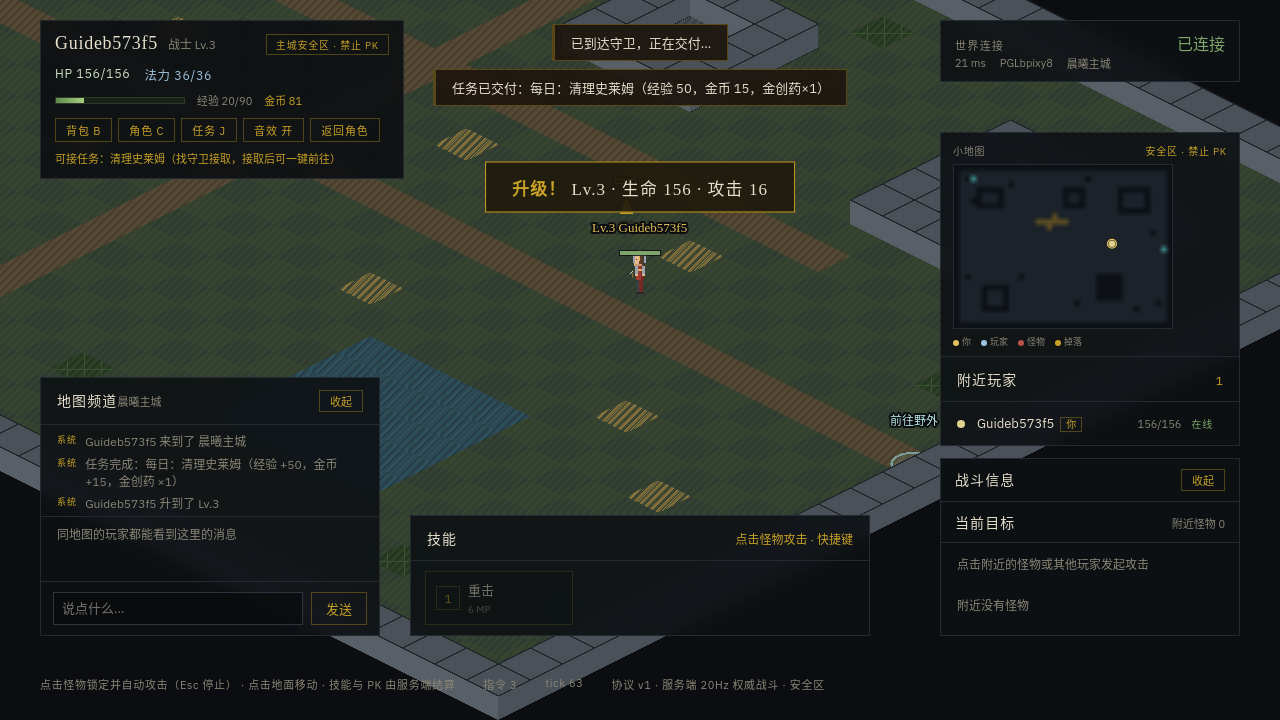
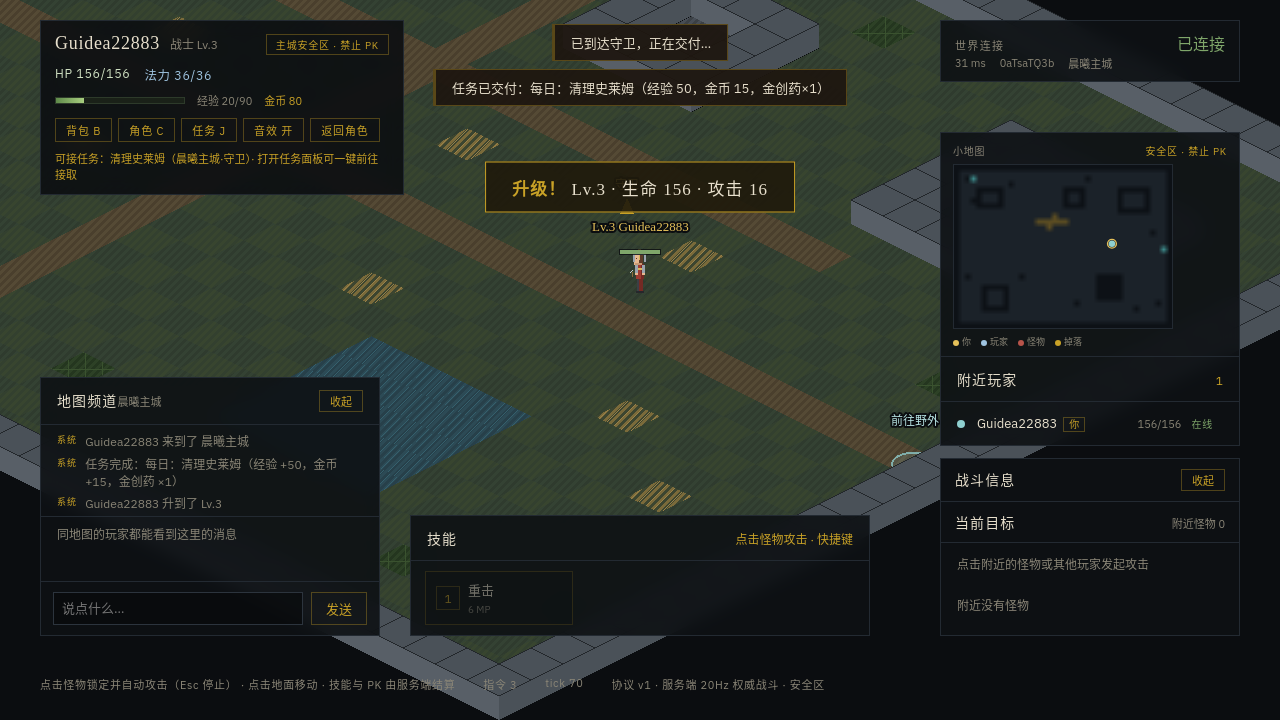
docs(alpha-03): record the global quest panel

diff --git a/docs/ALPHA_03_EXECUTION_PLAN.md b/docs/ALPHA_03_EXECUTION_PLAN.md
@@ -15,7 +15,7 @@
 | S1   | 组队：邀请/接受/离开、名单、跨图保留、共享击杀经验与掉落   | 完成 | `docs/phase-reports/alpha-02/ALPHA_02_PARTY_REPORT.md`、ADR-035/036      |
 | S2   | 世界首领：废墟「灰烬魔像」、二阶段狂暴、地图公告、首领 HUD | 完成 | `docs/phase-reports/alpha-03/ALPHA_03_BOSS_REPORT.md`、ADR-037           |
 | S3-A | 每日任务：内容化重置、周期键、2 个日常任务                 | 完成 | `docs/phase-reports/alpha-03/ALPHA_03_DAILY_QUESTS_REPORT.md`、ADR-038   |
-| S3-B | 一键任务导航：自动寻路/战斗、自动返回与到达交付            | 完成 | `docs/phase-reports/alpha-03/ALPHA_03_QUEST_GUIDANCE_REPORT.md`、ADR-039 |
+| S3-B | 一键任务导航：全局面板、远程接取、自动寻路/战斗与到达交付  | 完成 | `docs/phase-reports/alpha-03/ALPHA_03_QUEST_GUIDANCE_REPORT.md`、ADR-039 |
 | S3-C | 待定：10 步主线任务链或 3 人副本实例                       | 待定 | —                                                                        |
 | S4   | 待定：社交深化（队伍聊天/移交/踢人/地图标识）              | 待定 | —                                                                        |
 | S5   | 待定：交易或排行榜最小版                                   | 待定 | —                                                                        |
@@ -53,7 +53,12 @@
    不变；自动交付失败回退到面板。
 5. 客户端：接取并前往、回去交付、停止自动、状态横幅与进度/完成/交付提示；
    不遮挡玩家与画面中心。
-6. 验证：540 测试、44 个浏览器 E2E（串行全量 44/44）、资产不变量 7/7 为 0。
+6. 全局面板：任意地图打开「任务 · 全部地图」可看到所有任务的状态与发布者
+   地点；从 NPC 点开时只显示该发布者。
+7. 远程接取：任意地图点「前往接取」，服务端自动把角色送到发布者身边并接取，
+   接取成功后自动开始狩猎；接取仍是客户端发起的既有命令，服务器校验距离与
+   状态；未实现瞬移。
+8. 验证：541 测试、45 个浏览器 E2E（串行全量）、资产不变量 7/7 为 0。
 
 ## S3-C 选择依据（下一轮）
 
@@ -75,7 +80,8 @@
 - S3-A 新增：每日任务历史行没有清理策略（TD-DATA-12，P3）；日常 UI 只有
   静态重置时刻，没有倒计时。
 - S3-B 新增：自动战斗只用普通攻击（TD-CLI-19，P3）；导航意图是连接级状态，
-  过图/断线后依赖客户端重放；Room 编排继续增长（TD-SRV-01b）。
+  过图/断线后依赖客户端重放；Room 编排继续增长（TD-SRV-01b）。远程接取仍需
+  角色自动走到发布者，未实现瞬移；跨图接取会增加一段真实旅程。
 - 保持：TD-SRV-11（队伍仅内存）、TD-CLI-17（队伍聊天/分配/移交）、
   TD-CLI-13（正式美术）。
 - S2 不新增数据库迁移、不改资产模型、不引入 Redis；S3-A 增加一条向前兼容

diff --git a/docs/WORKLOG.md b/docs/WORKLOG.md
@@ -3713,3 +3713,61 @@ pnpm verify:invariants
 1. 8584 试玩一键流程、途中停止与手动打断。
 2. S3-C：10 步主线任务链优先；副本实例先写 ADR。
 3. 视反馈评估自动技能/喝药、抢怪保护或瞬移（需 ADR）。
+
+## 2026-11-27 Alpha 0.3 S3-B 补充：全局任务面板与远程接取
+
+### 目标
+
+让任务清单与状态在任意地图都可见；远处任务不需要玩家自己找路回发布者，
+点击「前往接取」后由服务端自动走到发布者身边并接取，接取后继续自动狩猎。
+
+### 实际改动
+
+1. **全局面板**
+   - 默认「任务 · 全部地图」面板不再按当前地图过滤，展示服务器下发的全部
+     任务（锁定/可接/进行中/已完成/已领取）与发布者地点；从 NPC 点开仍只
+     显示该发布者的任务。
+   - 新增 `locateNpc`：从全部编译地图解析 NPC 的地图与名字；面板、提示与
+     追踪器显示「晨曦主城·守卫」。
+2. **远程接取**
+   - 协议新增 `accept` 导航目的；服务端在开始前用任务视图校验必须是
+     `available`，然后按传送门图把角色送到发布者身边。
+   - 到达后客户端发送既有 `quest.accept`，成功后自动开始 `hunt`；接取命令
+     仍校验距离、等级、前置与状态。
+   - 未实现瞬移；远程接取是服务端自动寻路。
+3. **UI**
+   - 面板按钮区分「接取」「接取并前往」「前往接取」「停止自动」；可接任务
+     提示显示发布者地图。
+4. **测试**
+   - 新增 1 条 Room 集成（野外对主城任务 accept，下一跳主城）。
+   - `questGuidance.spec.ts` 新增浏览器场景：野外全局面板→前往接取→自动
+     回城→自动接取→自动狩猎→停止。
+   - 全量 541 单元/集成、45 E2E（串行全量）。
+
+### 命令与结果
+
+```bash
+pnpm format:check
+pnpm lint
+pnpm typecheck
+pnpm test
+pnpm build
+PLAYWRIGHT_WORKERS=1 pnpm test:e2e
+```
+
+- 格式/lint/类型/构建：通过。
+- 单元/集成：**541 测试**通过。
+- 全量 E2E：**45/45 通过**（串行全量）。
+- 新场景截图：`docs/phase-reports/alpha-03/quest-guidance/e2e-global-panel.png`、
+  `e2e-global-accepted.png`。
+
+### 尚未解决
+
+- 远程接取仍需角色自动走到发布者，未实现瞬移。
+- 任务面板没有分组/筛选，任务数量增加后需要滚动；按试玩反馈评估。
+- 自动战斗只用普攻（TD-CLI-19）等既有边界不变。
+
+### 提交
+
+- `5dc6e96` `feat(alpha-03): open quests from every map`
+  （12 个文件：契约、导航 accept、全局面板、地点解析、1 条集成、1 个 E2E）。

diff --git a/docs/phase-reports/alpha-03/ALPHA_03_QUEST_GUIDANCE_REPORT.md b/docs/phase-reports/alpha-03/ALPHA_03_QUEST_GUIDANCE_REPORT.md
@@ -131,3 +131,31 @@ pnpm verify:invariants
 1. 8584 手工试玩：接取并前往、途中停止、手动攻击打断、完成后回去交付。
 2. 视试玩反馈决定是否补自动技能/喝药、抢怪保护或瞬移（瞬移需单独 ADR）。
 3. 继续 10 步主线任务链或副本实例（先写 ADR）。
+
+## 8. 补充（2026-11-27）：全局任务面板与远程接取
+
+**用户反馈**：希望在任何地图都能看到任务清单与状态；无论在哪里都能直接点击
+去接取，并自动前往发布者。
+
+**交付**
+
+1. **全局面板**：默认「任务 · 全部地图」面板列出服务器下发的全部任务（锁定/
+   可接/进行中/已完成/已领取），每行显示发布者地图与名字；从 NPC 点开时仍
+   只显示该发布者的任务。追踪器与提示也显示发布者地图。
+2. **前往接取**：新增 `accept` 导航目的。任意地图点击「前往接取」，服务端按
+   传送门图把角色送到发布者身边；到达后客户端发送既有 `quest.accept`，
+   接取成功后自动开始 `hunt`。服务端在开始导航前校验任务必须是 `available`；
+   接取命令仍校验距离、等级、前置与状态。
+3. **仍不是瞬移**：远程接取是服务端自动寻路走过去，不是远程直接发奖或瞬间
+   移动；地图风险与旅程保留。
+4. **UI**：可接任务提示显示「晨曦主城·守卫」等地点；面板按钮区分「接取」
+   「接取并前往」「前往接取」「停止自动」。
+
+**验证**
+
+- 新增 Room 集成用例：野外角色对主城任务发起 accept，收到 `moving` 且下一跳
+  是主城。
+- 新增浏览器 E2E：在野外打开全局面板，看到主城任务与地点，点击「前往接取」，
+  自动回城、自动接取并自动开始狩猎，再点停止。截图
+  `quest-guidance/e2e-global-panel.png`、`e2e-global-accepted.png`。
+- 全量 **541 单元/集成测试**、**45 个浏览器 E2E** 通过（串行全量）。

diff --git a/docs/ADR/ADR-039-one-click-quest-guidance.md b/docs/ADR/ADR-039-one-click-quest-guidance.md
@@ -96,3 +96,28 @@
 - 浏览器 E2E：一键接取并前往 → 自动过图与击杀 5 只史莱姆 → 一键返回 →
   到达守卫后自动交付，金币增加、追踪器清空；完成态显示「守卫」而非 NPC id。
 - 全量回归：540 个单元/集成测试、44 个浏览器 E2E（新场景约 47 秒）。
+
+## 7. 补充（2026-11-27）：全局任务面板与远程接取
+
+**背景**：第一版在野外只显示进行中/已完成任务；其他地图上“可接取”的任务被
+过滤掉，玩家必须先自己走回发布者才能接取。用户反馈希望在任意地图都能看到
+任务清单与状态，并且点一下就能去接取。
+
+**补充决策**
+
+1. 默认任务面板改为**全局清单**：服务器本来就会下发全部任务，客户端不再按
+   当前地图过滤；每行显示任务状态与发布者所在地图（如「晨曦主城·守卫」）。
+   从 NPC 点开的面板仍只显示该发布者的任务。
+2. 新增 `accept` 导航目的：任意地图点击「前往接取」，服务端按传送门图把
+   角色送到发布者身边；到达后客户端发送既有 `quest.accept`，接取成功后自动
+   开始 `hunt`。接取仍是客户端发起的资产命令，服务器照常校验距离、等级、
+   前置与状态。
+3. 服务端在开始 `accept` 导航前用任务视图校验状态必须是 `available`；
+   其它状态返回 `QUEST_UNAVAILABLE`/`QUEST_ALREADY_CLAIMED`。
+4. 仍未实现瞬移：远程接取是“自动走过去”，不是“远程直接接取”或“瞬间移动”；
+   旅程与地图风险保留。
+5. 任务提示、追踪器与面板都显示发布者地图；发布者名字来自全部编译地图。
+
+**验证**：新增 Room 集成用例（野外对主城任务发起 accept，下一跳为主城）与
+浏览器 E2E（野外打开全局面板→「前往接取」→自动回城→自动接取→自动开始
+狩猎→停止）；全量 541 测试、45 个 E2E。

diff --git a/docs/EVOLUTION_LOG.md b/docs/EVOLUTION_LOG.md
@@ -649,3 +649,28 @@ Boss 只有一个阶段与固定刷点，引导也弱：玩家要走到废墟深
 **反思**：哪些判断正确；哪些不够好；下一次怎么做得更好。
 **下一步**：...
 ```
+
+## 2026-11-27 Alpha 0.3 S3-B 补充：任务入口在全图可达
+
+**目标**：任务清单应该在任何地图都可见；远处任务不应该要求玩家先自己找路
+回去接取。
+
+**关键决策**
+
+1. 服务器本来就下发全部任务，问题只是客户端按当前地图过滤；默认面板改为
+   全局清单，并补一张发布者→地图的解析表。
+2. 远程接取复用既有导航状态机，新增 `accept` 目的：服务端走到发布者，客户端
+   在到达后发送既有 `quest.accept`，成功后自动开始狩猎。没有“远程直接发奖”
+   的旁路，也没有瞬移。
+3. 全局面板与地点解析都走编译地图数据，不新增协议字段或服务端查询。
+
+**结果**：全局面板、远程接取与“自动回城接取后继续狩猎”全部交付；新增 1 条
+Room 集成与 1 个浏览器场景；全量 541 测试、45 个 E2E（串行）通过。真实截图
+显示野外可看到主城任务与「晨曦主城·守卫」，接取后自动开始狩猎。
+
+**反思**：正确之处是先检查数据是否已经全量下发，修复停留在展示层；远程接取
+沿用意图/状态机而不是发明“远程接取”快捷路径。不足是远程接取仍是一段真实
+旅程（未实现瞬移），任务面板没有分组/筛选，任务多时需要滚动。
+
+**下一步**：8584 试玩全局面板与远程接取；按反馈评估瞬移、任务筛选或事务；
+S3-C 优先 10 步主线任务链。

diff --git a/docs/ENGINEERING_LEARNINGS.md b/docs/ENGINEERING_LEARNINGS.md
@@ -464,3 +464,14 @@
   E2E 一个独立房间实例（本轮的 `?freshTransfer=1`）比加长超时更可靠。
 - 附带教训：只要界面会展示另一张地图上的 NPC/地点，名字解析就必须来自全部
   地图，不能只来自玩家当前地图；否则野外会露出 `town_guard` 这类机器名。
+
+## EL-039：数据已经全量下发时，先检查客户端的过滤条件
+
+- 案例：服务器本来就会把全部任务（含其他地图发布的任务）下发给客户端，但
+  任务面板按“当前地图 NPC”过滤，结果野外看不到主城的可接任务。修复是删除
+  客户端过滤并补一张发布者→地图的本地解析表，不需要协议或服务端改动。
+- 经验：遇到“某个信息在别处看不到”时，先确认它是否已经在下发数据里；如果
+  是，问题通常在展示层的过滤/索引，而不是后端缺失。跨地图的名字、地点与
+  入口都应该是全局解析，不能只解析当前地图。
+- 附带：远程接取没有新增“远程直接发奖”的旁路，而是给既有导航状态机增加一个
+  `accept` 目的，走真实传送门与既有接取命令；这保持了服务端权威与资产事务。

diff --git a/docs/TECHNICAL_DEBT.md b/docs/TECHNICAL_DEBT.md
@@ -455,6 +455,9 @@ ADR-036。
   `world/questRouting.ts`。
 - 全量 E2E 在 2 worker 下出现时序/共享实体抖动，单跑与串行全量均通过；
   更新 TD-QA-11 证据，未降低断言。
+- 补充（2026-11-27）：全局面板与远程接取没有新增 P0/P1/P2；远程接取仍走
+  真实旅程（未实现瞬移），任务面板暂时没有分组/筛选，任务数量增加后按试玩
+  反馈评估。
 
 ## 1. 服务端与实时网络
 
